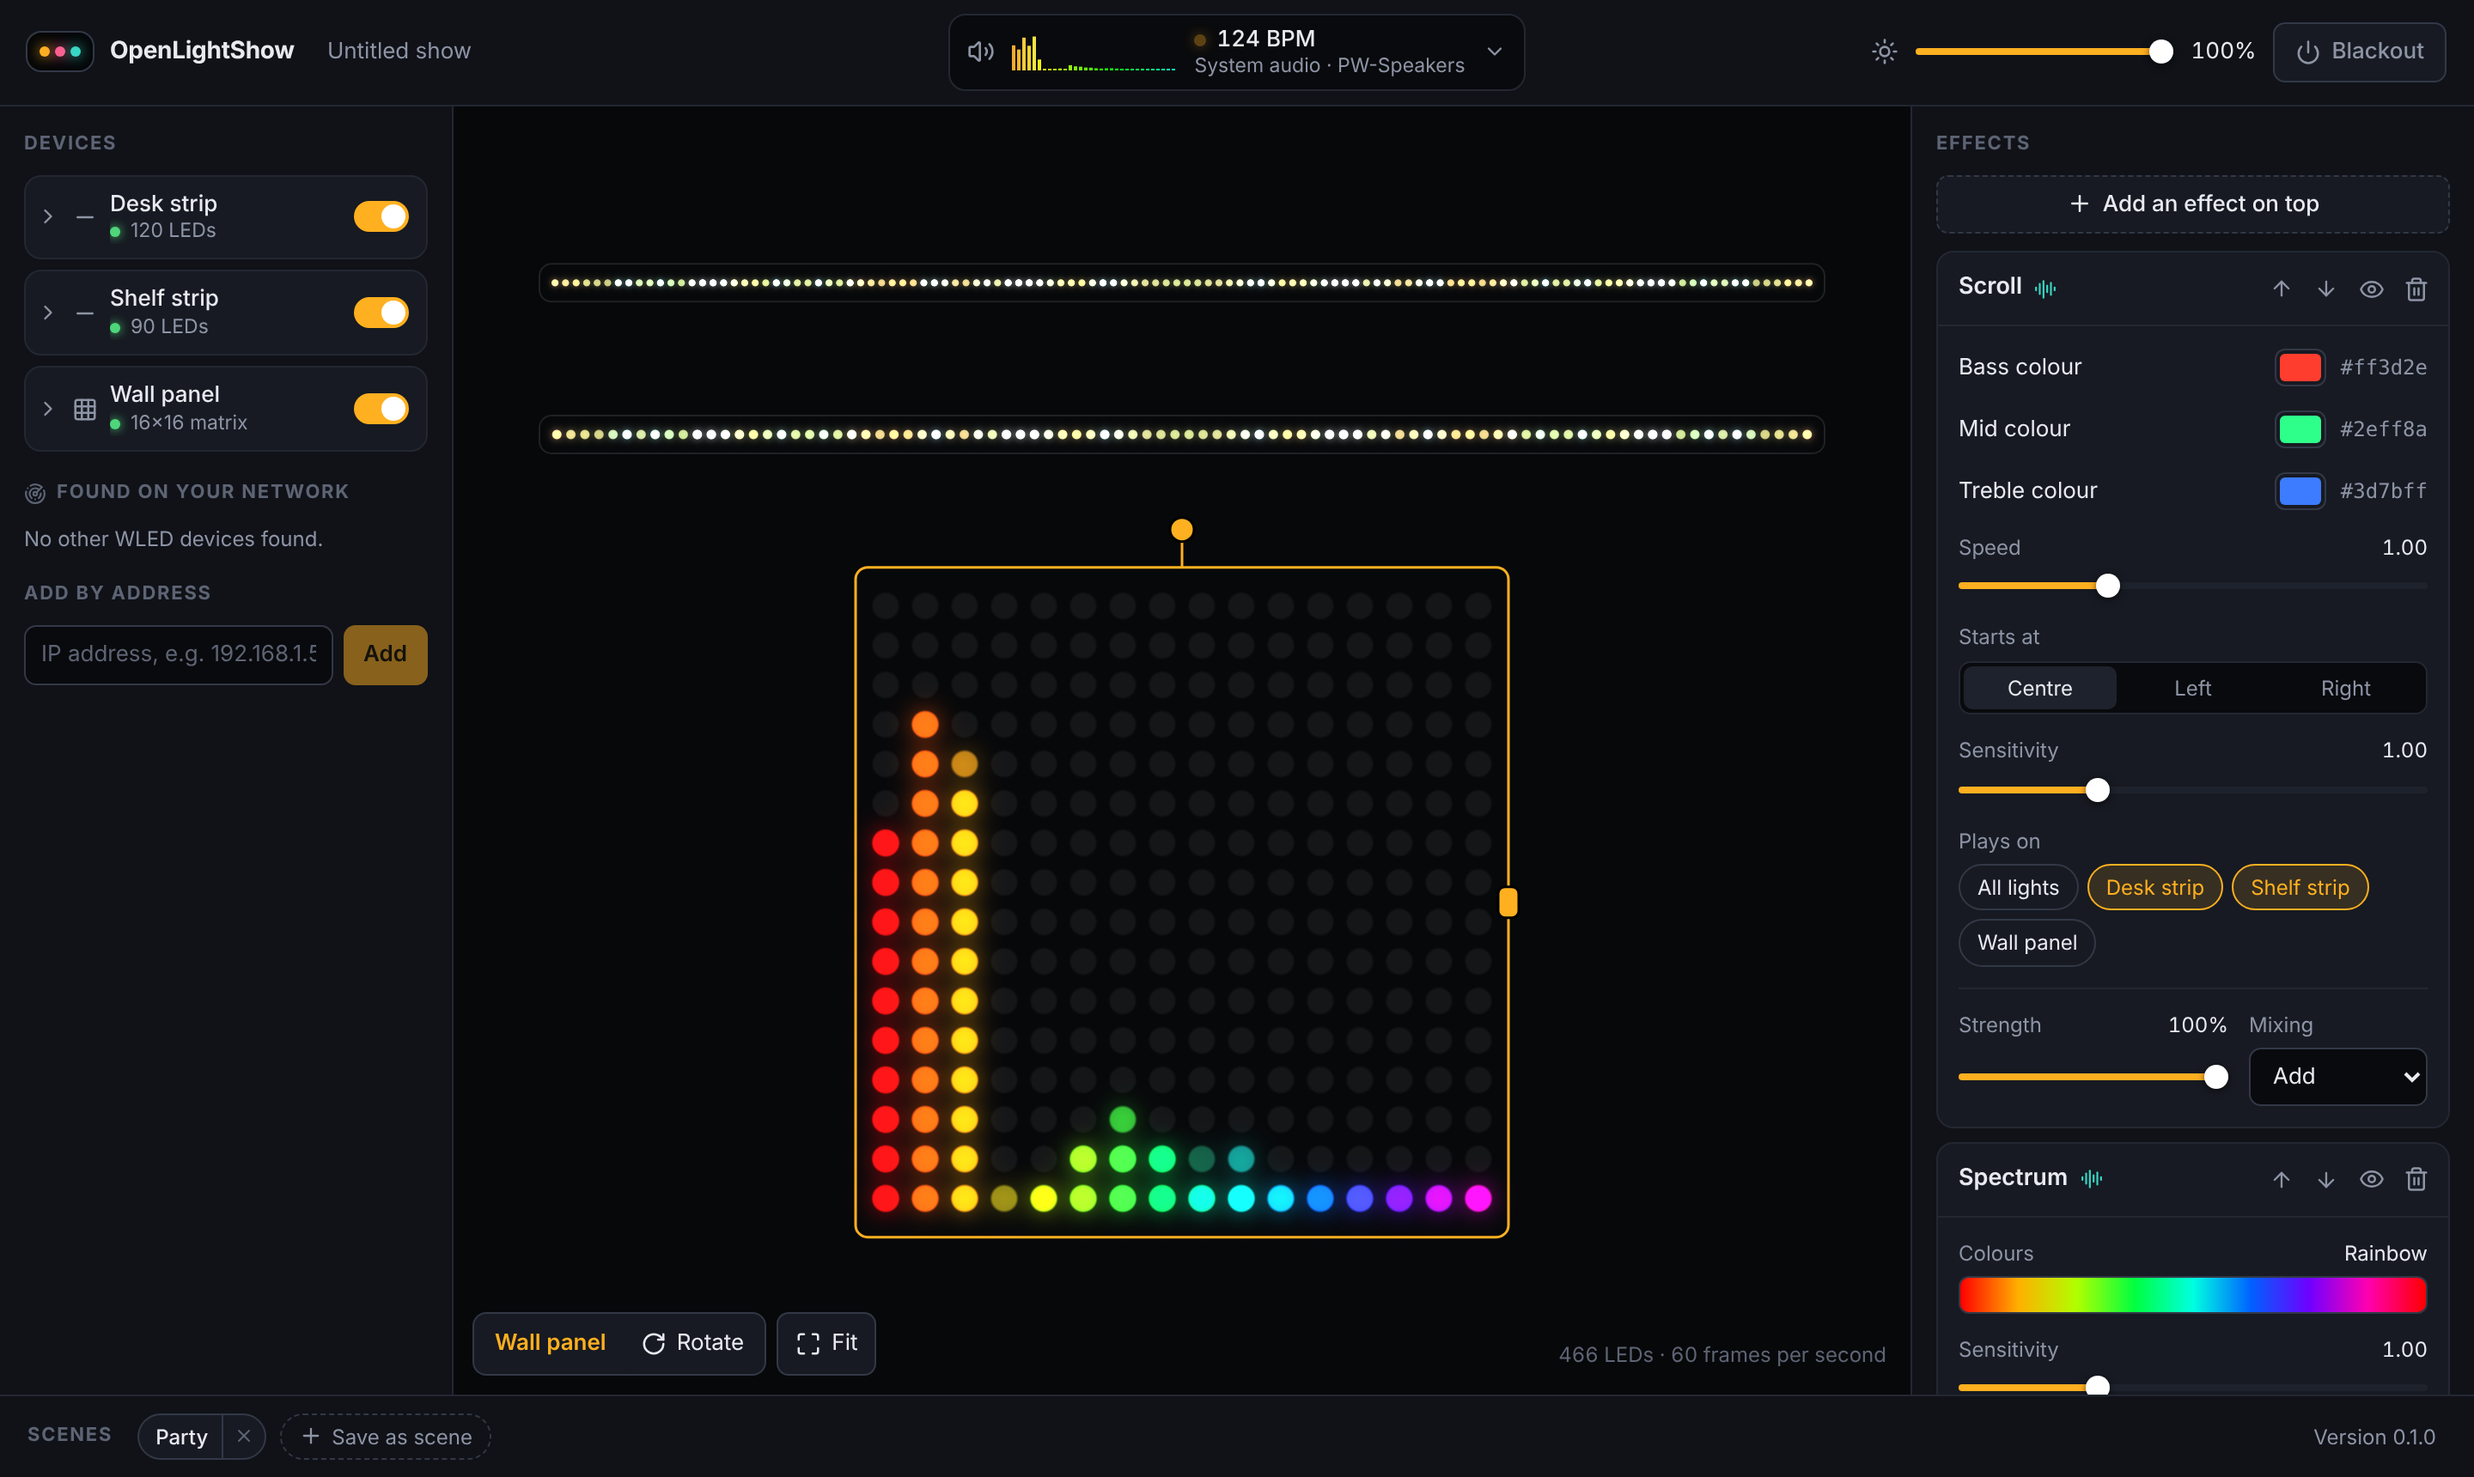
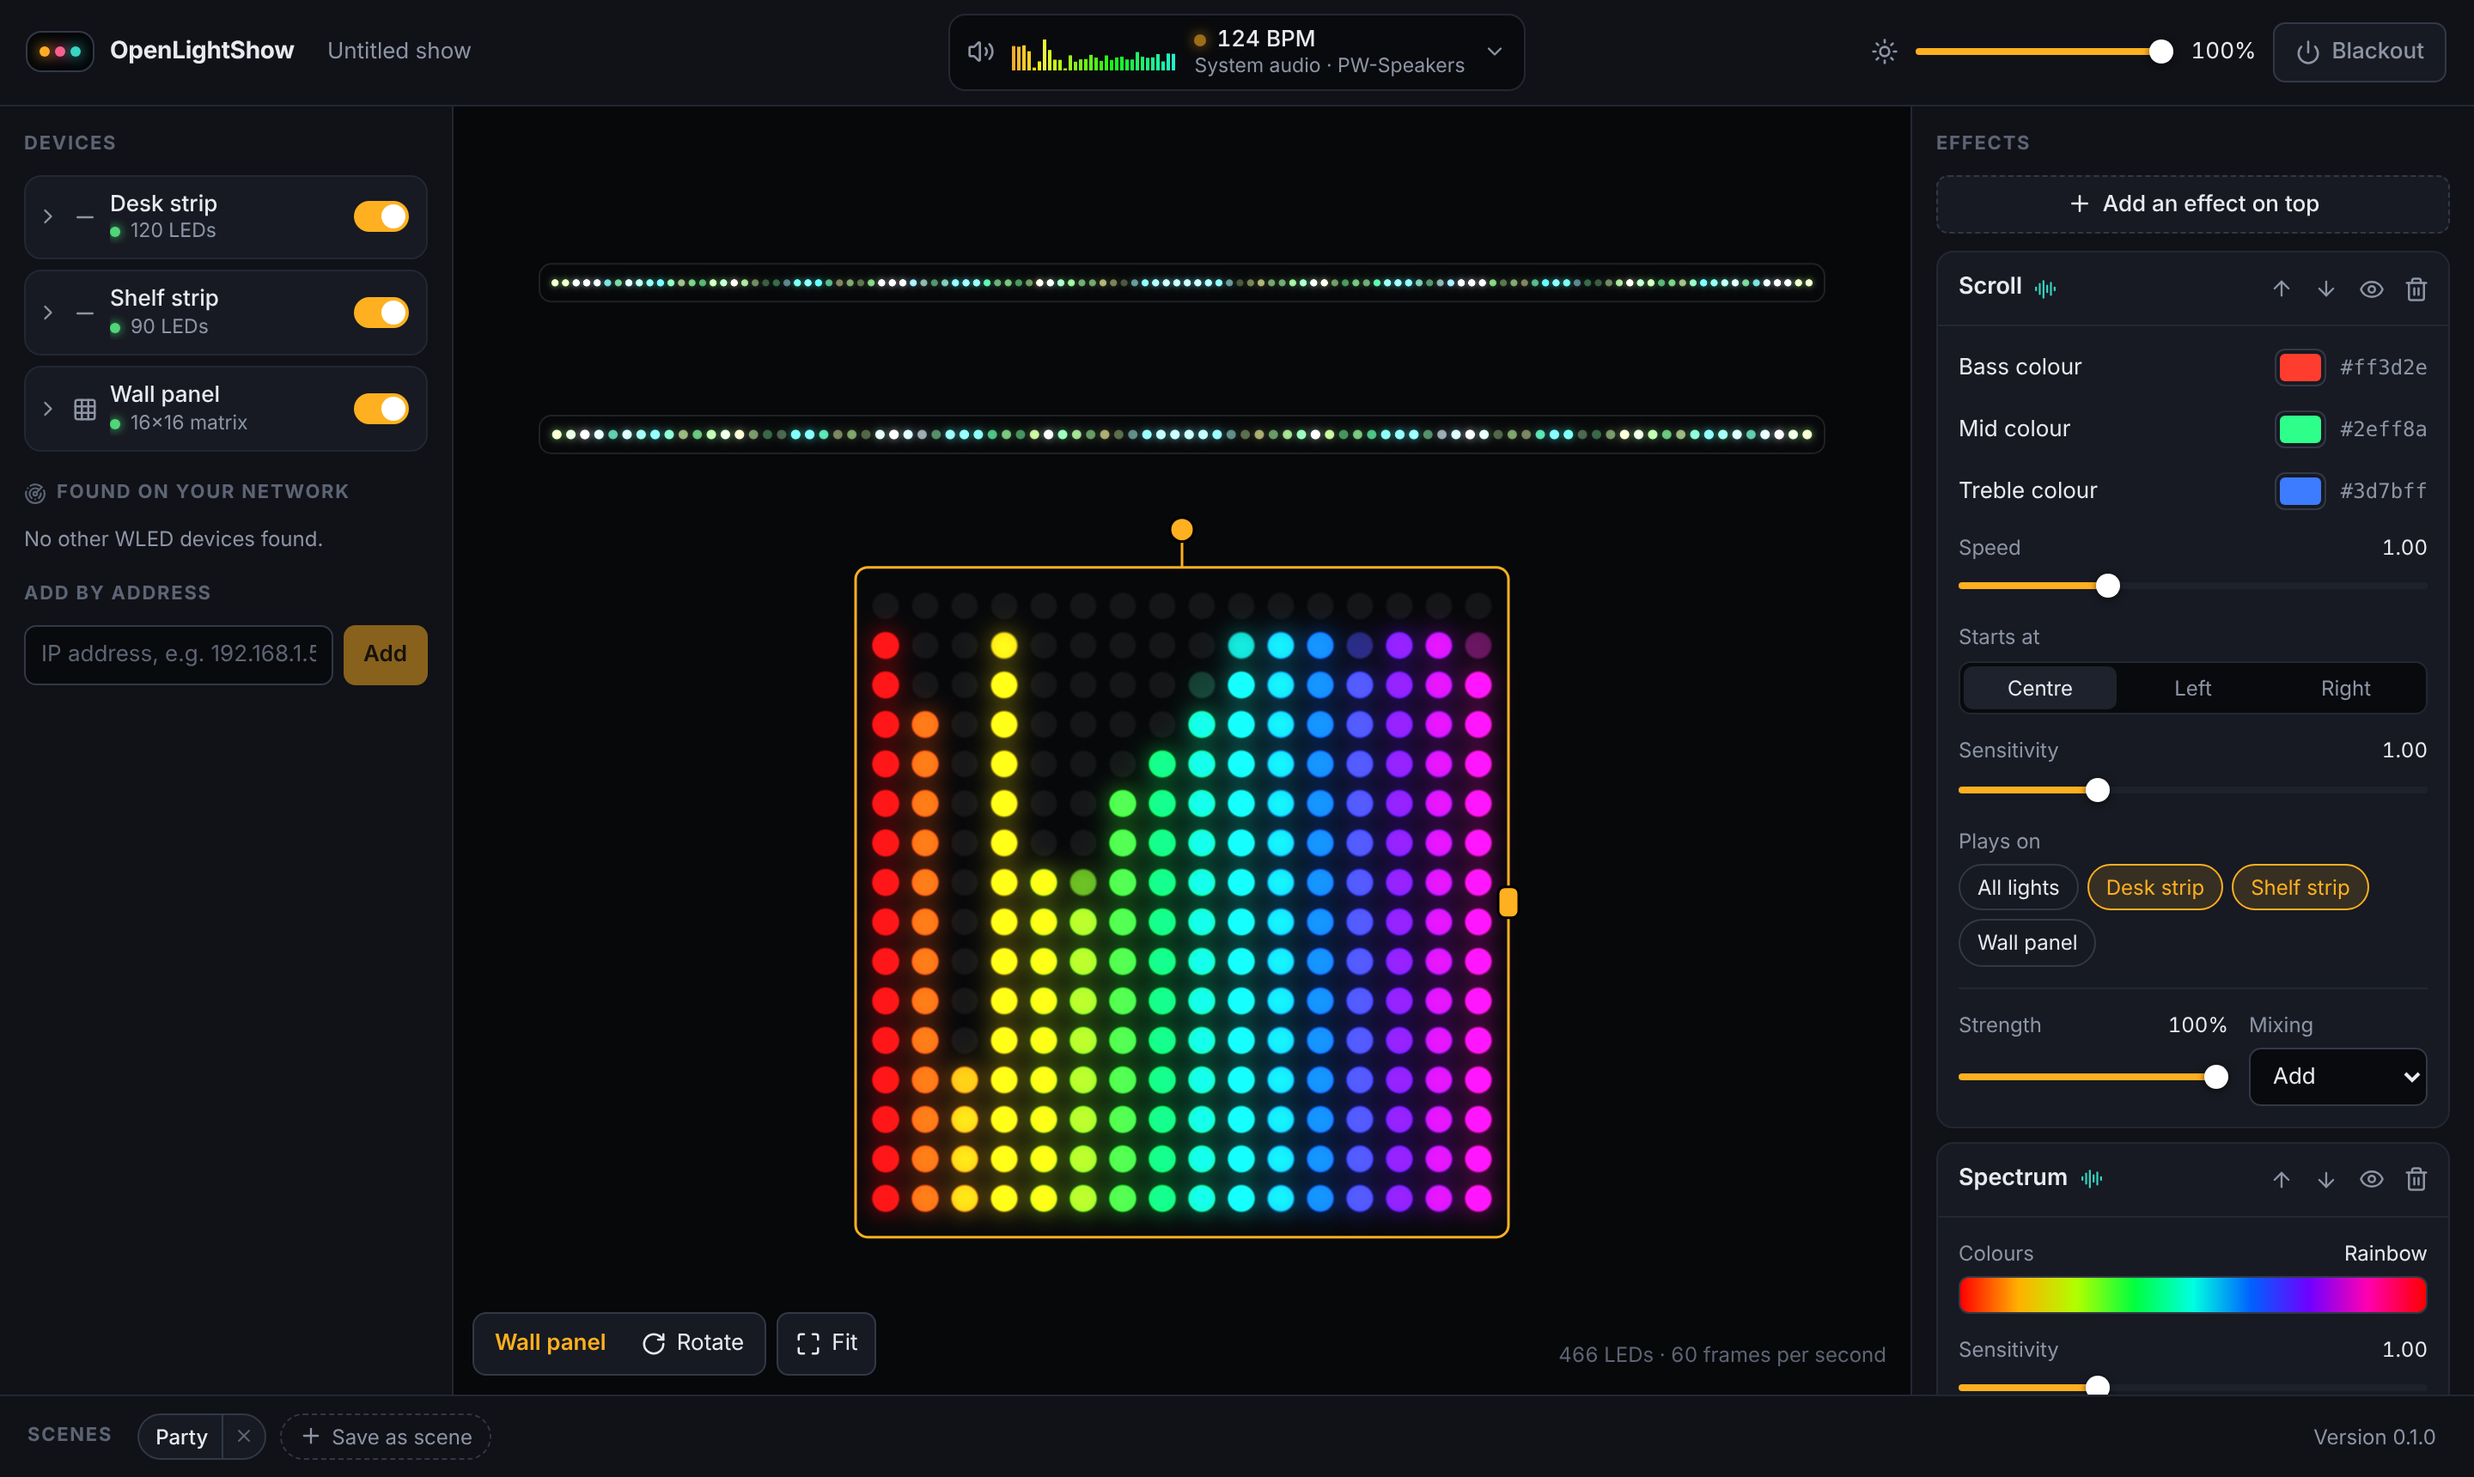
Make audio features swing, and test the release build in CI
- Each band, each of bass/mid/treble, and the overall level now track a
  recent quiet level as well as a recent peak, and are read between the
  two. Sustained sound reads low and hits stand out. On the test song the
  10th-to-90th percentile swing went from 0.19 to 0.63 for bass, 0.20 to
  0.45 for mid and 0.24 to 0.50 for level.
- Bass, mid and treble come from each group's total energy, not from its
  loudest band.
- examples/spread prints those percentiles, for tuning.
- CI tests the release build, so everything compiles once.
- Refreshed screenshots.

diff --git a/crates/ols-audio/src/analysis.rs b/crates/ols-audio/src/analysis.rs
@@ -29,12 +29,17 @@ const BAND_MAX_HZ: f32 = 16_000.0;
 const BASS_MAX_HZ: f32 = 250.0;
 const TREBLE_MIN_HZ: f32 = 2_500.0;
 
-/// A band this far below its own recent peak shows as zero.
+/// A band this far below its own recent peak shows as zero, at most.
 const BAND_RANGE_DB: f32 = 24.0;
+/// How close to the peak the "quiet" end of a band's range may rise, when
+/// the band never goes quiet. Music with a steady bass line under its kick
+/// drum then still swings: the steady part reads low and the kick high.
+const MIN_RANGE_DB: f32 = 9.0;
+/// Seconds for the quiet end of the range to drift up to a sustained level.
+const FLOOR_RISE_S: f32 = 3.0;
 /// A band is never levelled up by more than this relative to the loudest
 /// band (30 dB), so bands holding only noise stay dark.
 const BAND_FLOOR: f32 = 0.03;
-const LEVEL_RANGE_DB: f32 = 24.0;
 /// Input quieter than this (about -80 dBFS) counts as silence.
 const SILENCE_RMS: f32 = 1e-4;
 /// Gain never amplifies beyond what this reference allows, so background
@@ -72,7 +77,13 @@ pub struct Analyzer {
     /// Recent peak of the loudest band, and of each band by itself.
     band_ref: f32,
     band_peaks: [f32; BANDS],
+    /// Recent quiet level of each band: falls at once, rises slowly.
+    band_floors: [f32; BANDS],
+    /// The same pair for bass, mid and treble as whole groups.
+    group_peaks: [f32; 3],
+    group_floors: [f32; 3],
     level_ref: f32,
+    level_floor: f32,
     prev_log: [f32; BANDS],
     /// As `prev_log`, but measured against the loudest band, not each
     /// band's own peak. The tempo tracker uses this one.
@@ -159,7 +170,11 @@ impl Analyzer {
             sensitivity: 1.0,
             band_ref: MIN_REFERENCE,
             band_peaks: [0.0; BANDS],
+            band_floors: [0.0; BANDS],
+            group_peaks: [0.0; 3],
+            group_floors: [0.0; 3],
             level_ref: MIN_REFERENCE,
+            level_floor: 0.0,
             prev_log: [0.0; BANDS],
             prev_log_natural: [0.0; BANDS],
             quiet_steps: usize::MAX / 2,
@@ -288,8 +303,10 @@ impl Analyzer {
             group_flux[self.band_class[b] as usize] += natural_rise;
             group_size[self.band_class[b] as usize] += 1;
 
+            let reference = peak.max(floor);
+            let quiet = follow_floor(&mut self.band_floors[b], bands[b], self.step_rate, reference);
             let target = if active {
-                (to_unit(relative, BAND_RANGE_DB).powf(1.4) * self.sensitivity).min(1.0)
+                (within(bands[b], quiet, reference).powf(1.2) * self.sensitivity).min(1.0)
             } else {
                 0.0
             };
@@ -298,31 +315,43 @@ impl Analyzer {
             *current += (target - *current) * rate;
         }
 
+        let quiet = follow_floor(&mut self.level_floor, rms, self.step_rate, self.level_ref);
         let target = if active {
-            (to_unit(rms / self.level_ref, LEVEL_RANGE_DB).powf(1.2) * self.sensitivity).min(1.0)
+            (within(rms, quiet, self.level_ref).powf(1.2) * self.sensitivity).min(1.0)
         } else {
             0.0
         };
         let rate = if target > self.out.level { 0.6 } else { 0.12 };
         self.out.level += (target - self.out.level) * rate;
 
-        let mut sums = [(0.0f32, 0.0f32, 0u32); 3];
+        // Bass, mid and treble come from each group's total energy, levelled
+        // the same way as a single band. Taking the loudest band of a group
+        // would sit near the top all the time: some band always is.
+        let mut energy = [0.0f32; 3];
         for b in 0..BANDS {
-            let slot = &mut sums[self.band_class[b] as usize];
-            slot.0 += self.out.bands[b];
-            slot.1 = slot.1.max(self.out.bands[b]);
-            slot.2 += 1;
+            energy[self.band_class[b] as usize] += bands[b] * bands[b];
         }
-        let blend = |(sum, max, count): (f32, f32, u32)| {
-            if count == 0 {
-                0.0
+        let mut groups = [0.0f32; 3];
+        for g in 0..3 {
+            let value = energy[g].sqrt();
+            let peak = &mut self.group_peaks[g];
+            *peak = if value > *peak {
+                *peak + (value - *peak) * 0.3
             } else {
-                0.6 * max + 0.4 * sum / count as f32
-            }
-        };
-        self.out.bass = blend(sums[0]);
-        self.out.mid = blend(sums[1]);
-        self.out.treble = blend(sums[2]);
+                *peak * release
+            };
+            let reference = peak.max(floor);
+            let quiet = follow_floor(&mut self.group_floors[g], value, self.step_rate, reference);
+            let target = if active {
+                (within(value, quiet, reference).powf(1.2) * self.sensitivity).min(1.0)
+            } else {
+                0.0
+            };
+            let current = [&mut self.out.bass, &mut self.out.mid, &mut self.out.treble];
+            let rate = if target > *current[g] { 0.7 } else { 0.18 };
+            groups[g] = *current[g] + (target - *current[g]) * rate;
+        }
+        [self.out.bass, self.out.mid, self.out.treble] = groups;
         self.out.active = active;
 
         let onset = active && self.detect_onset(flux);
@@ -568,13 +597,25 @@ fn follow(reference: f32, value: f32, release: f32) -> f32 {
     next.max(MIN_REFERENCE)
 }
 
-/// Maps a ratio to 0..1 on a decibel scale: 1.0 at the reference, 0.0 at
-/// `range_db` below it.
-fn to_unit(ratio: f32, range_db: f32) -> f32 {
-    if ratio <= 0.0 {
+fn db_to_ratio(db: f32) -> f32 {
+    10f32.powf(db / 20.0)
+}
+
+/// Updates a band's quiet level and returns the bottom of its range: the
+/// quiet level, kept between `BAND_RANGE_DB` and `MIN_RANGE_DB` below the
+/// peak. A steady tone therefore reads as full, not as nothing.
+fn follow_floor(floor: &mut f32, value: f32, step_rate: f32, peak: f32) -> f32 {
+    let rise = 1.0 - (-1.0 / (step_rate * FLOOR_RISE_S)).exp();
+    *floor += (value - *floor) * if value < *floor { 0.2 } else { rise };
+    floor.clamp(peak * db_to_ratio(-BAND_RANGE_DB), peak * db_to_ratio(-MIN_RANGE_DB))
+}
+
+/// Where `value` sits between `low` and `high` on a decibel scale, 0..1.
+fn within(value: f32, low: f32, high: f32) -> f32 {
+    if value <= low || high <= low {
         return 0.0;
     }
-    (1.0 + 20.0 * ratio.log10() / range_db).clamp(0.0, 1.0)
+    ((value / low).log10() / (high / low).log10()).clamp(0.0, 1.0)
 }
 
 #[cfg(test)]

diff --git a/crates/ols-audio/examples/spread.rs b/crates/ols-audio/examples/spread.rs
@@ -1,0 +1,36 @@
+//! Prints how much each audio feature moves: the 10th, 50th and 90th
+//! percentile over a few seconds. A feature that barely moves gives flat,
+//! washed-out effects, so this is the number to watch when tuning.
+//!
+//! `cargo run --release -p ols-audio --example spread -- [seconds]`
+
+use std::time::{Duration, Instant};
+
+use ols_audio::{AudioCapture, SYSTEM_SOURCE};
+
+fn main() {
+    let seconds: u64 = std::env::args().nth(1).and_then(|s| s.parse().ok()).unwrap_or(8);
+    let capture = AudioCapture::start(SYSTEM_SOURCE, 1.0);
+    // Let capture start and the automatic gain settle.
+    std::thread::sleep(Duration::from_secs(4));
+    let mut rows: [Vec<f32>; 4] = Default::default();
+    let started = Instant::now();
+    while started.elapsed() < Duration::from_secs(seconds) {
+        std::thread::sleep(Duration::from_millis(10));
+        let f = capture.features();
+        for (row, value) in rows.iter_mut().zip([f.level, f.bass, f.mid, f.treble]) {
+            row.push(value);
+        }
+    }
+    for (name, mut row) in ["level", "bass", "mid", "treble"].into_iter().zip(rows) {
+        row.sort_by(f32::total_cmp);
+        let at = |p: f32| row[((row.len() - 1) as f32 * p) as usize];
+        println!(
+            "{name:<7} p10 {:.2}  p50 {:.2}  p90 {:.2}  swing {:.2}",
+            at(0.1),
+            at(0.5),
+            at(0.9),
+            at(0.9) - at(0.1)
+        );
+    }
+}
